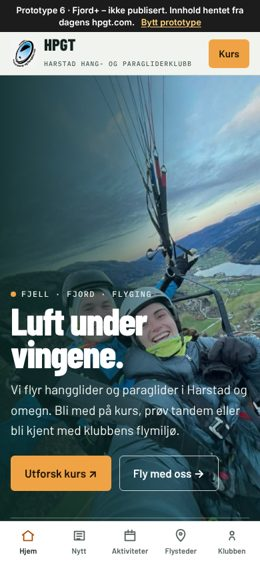
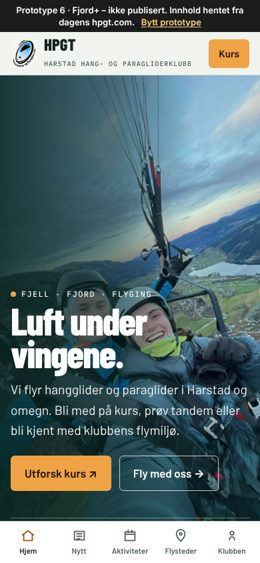
Fjord+: toppbildet midt mellom, så hele ansiktene vises
Claude-Session: https://claude.ai/code/session_01NtTzVBrv64MLKp2Sqdi5ss

diff --git a/src/themes/fjordpluss/style.css b/src/themes/fjordpluss/style.css
@@ -69,7 +69,7 @@ h1, h2, h3 { font-family: var(--head); font-weight: 800; line-height: .98; lette
 
 /* Helt */
 .hero { position: relative; color: #fff; isolation: isolate; display: grid; align-content: end; min-height: min(86vh, 720px); }
-.hero__img { position: absolute; inset: 0; width: 100%; height: 100%; object-fit: cover; object-position: 55% 72%; z-index: -2; }
+.hero__img { position: absolute; inset: 0; width: 100%; height: 100%; object-fit: cover; object-position: 55% 48%; z-index: -2; }
 .hero::after { content: ""; position: absolute; inset: 0; z-index: -1;
   background: linear-gradient(90deg, rgba(10,38,33,.88) 0%, rgba(10,38,33,.55) 45%, rgba(10,38,33,.1) 75%), linear-gradient(0deg, rgba(10,38,33,.6), transparent 40%); }
 .hero__text { padding-block: 96px 40px; }
@@ -240,7 +240,7 @@ code { font: 500 .92em var(--mono); background: var(--sunk); padding: 1px 6px; b
 .contribute { display: flex; flex-wrap: wrap; justify-content: space-between; align-items: end; gap: 20px; border-top: 3px solid var(--text); padding-top: 24px; }
 .contribute p { max-width: 54ch; color: var(--muted); margin: 0; }
 .article:has(.rd) { max-width: 1120px; }
-@media (max-width: 600px) { .hero__img { object-position: 35% 72%; } }
+@media (max-width: 600px) { .hero__img { object-position: 40% 50%; } }
 
 /* Siste nytt + aktiviteter, strukturert som Nordlys: kortrutenett til venstre, kalender og snarveier til høyre */
 .feed { display: grid; gap: 36px; grid-template-columns: minmax(0, 2fr) minmax(0, 1fr); align-items: start; }
